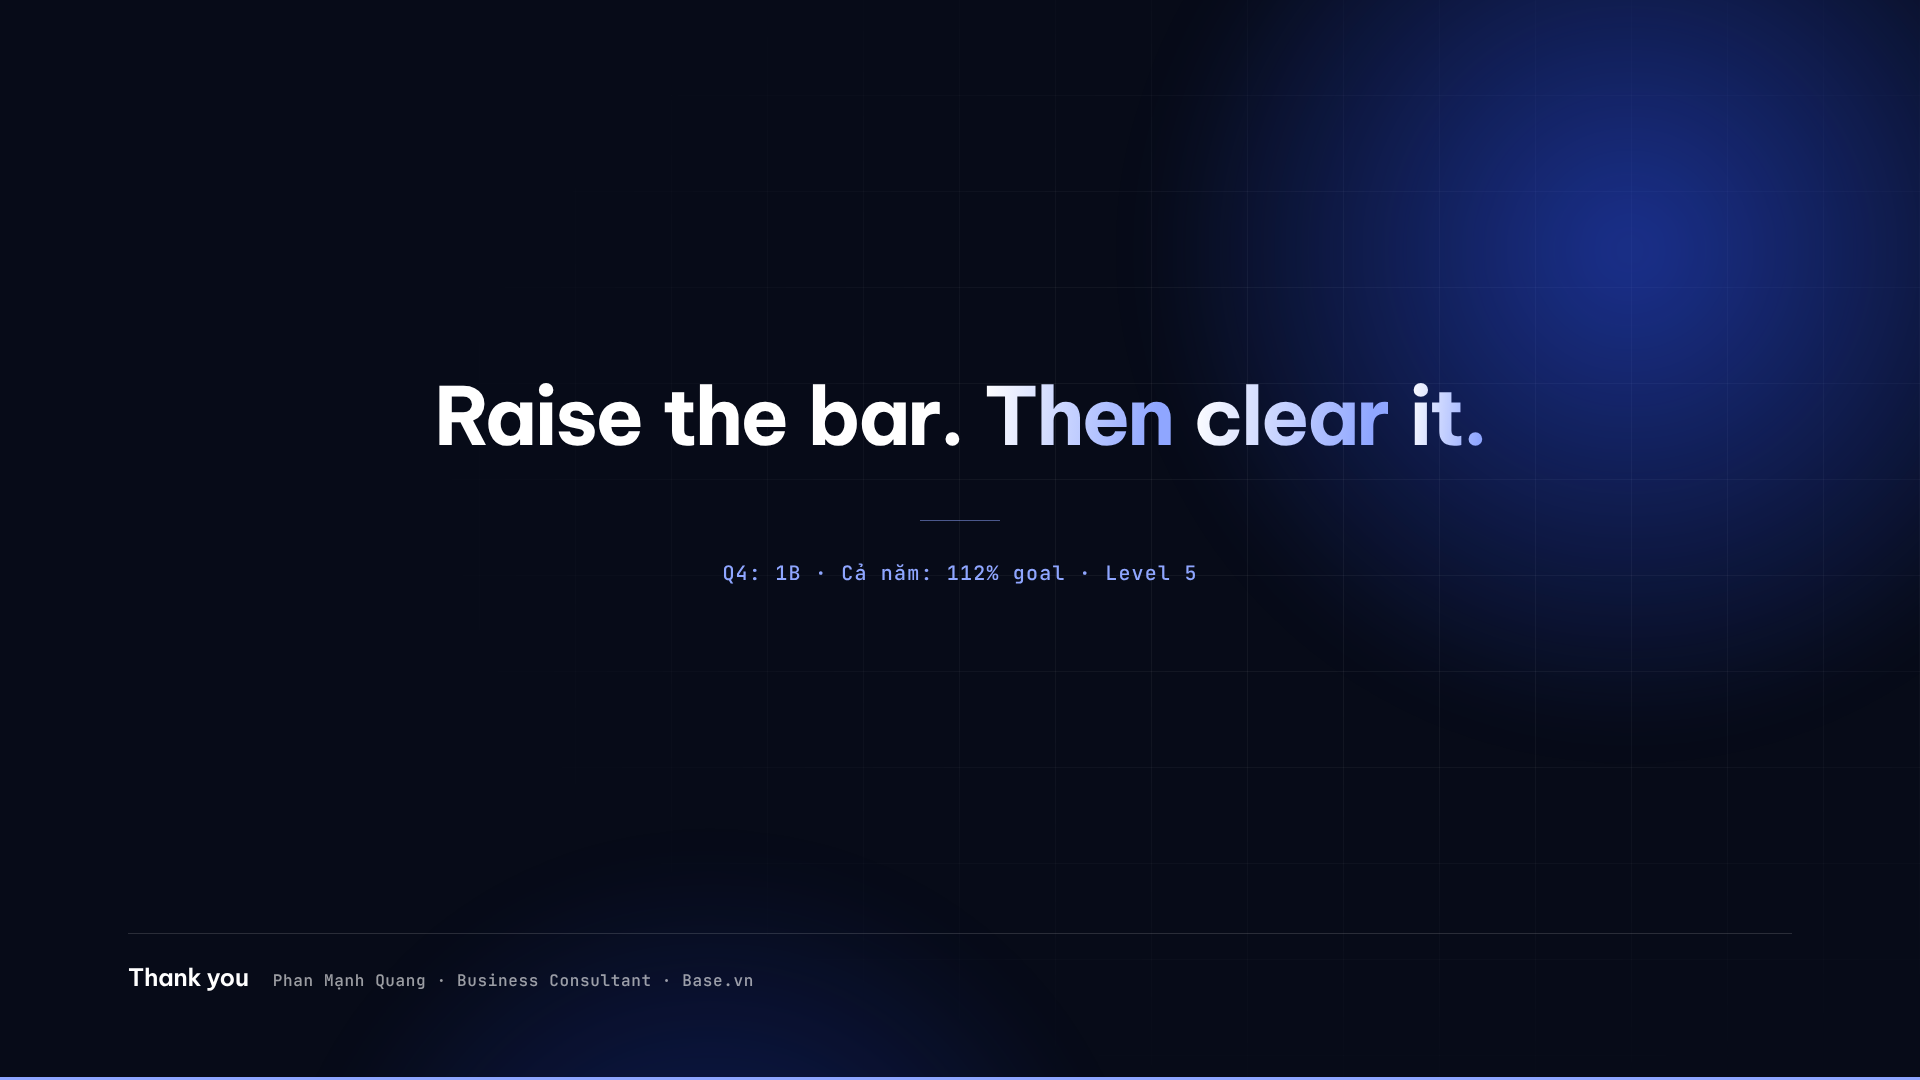
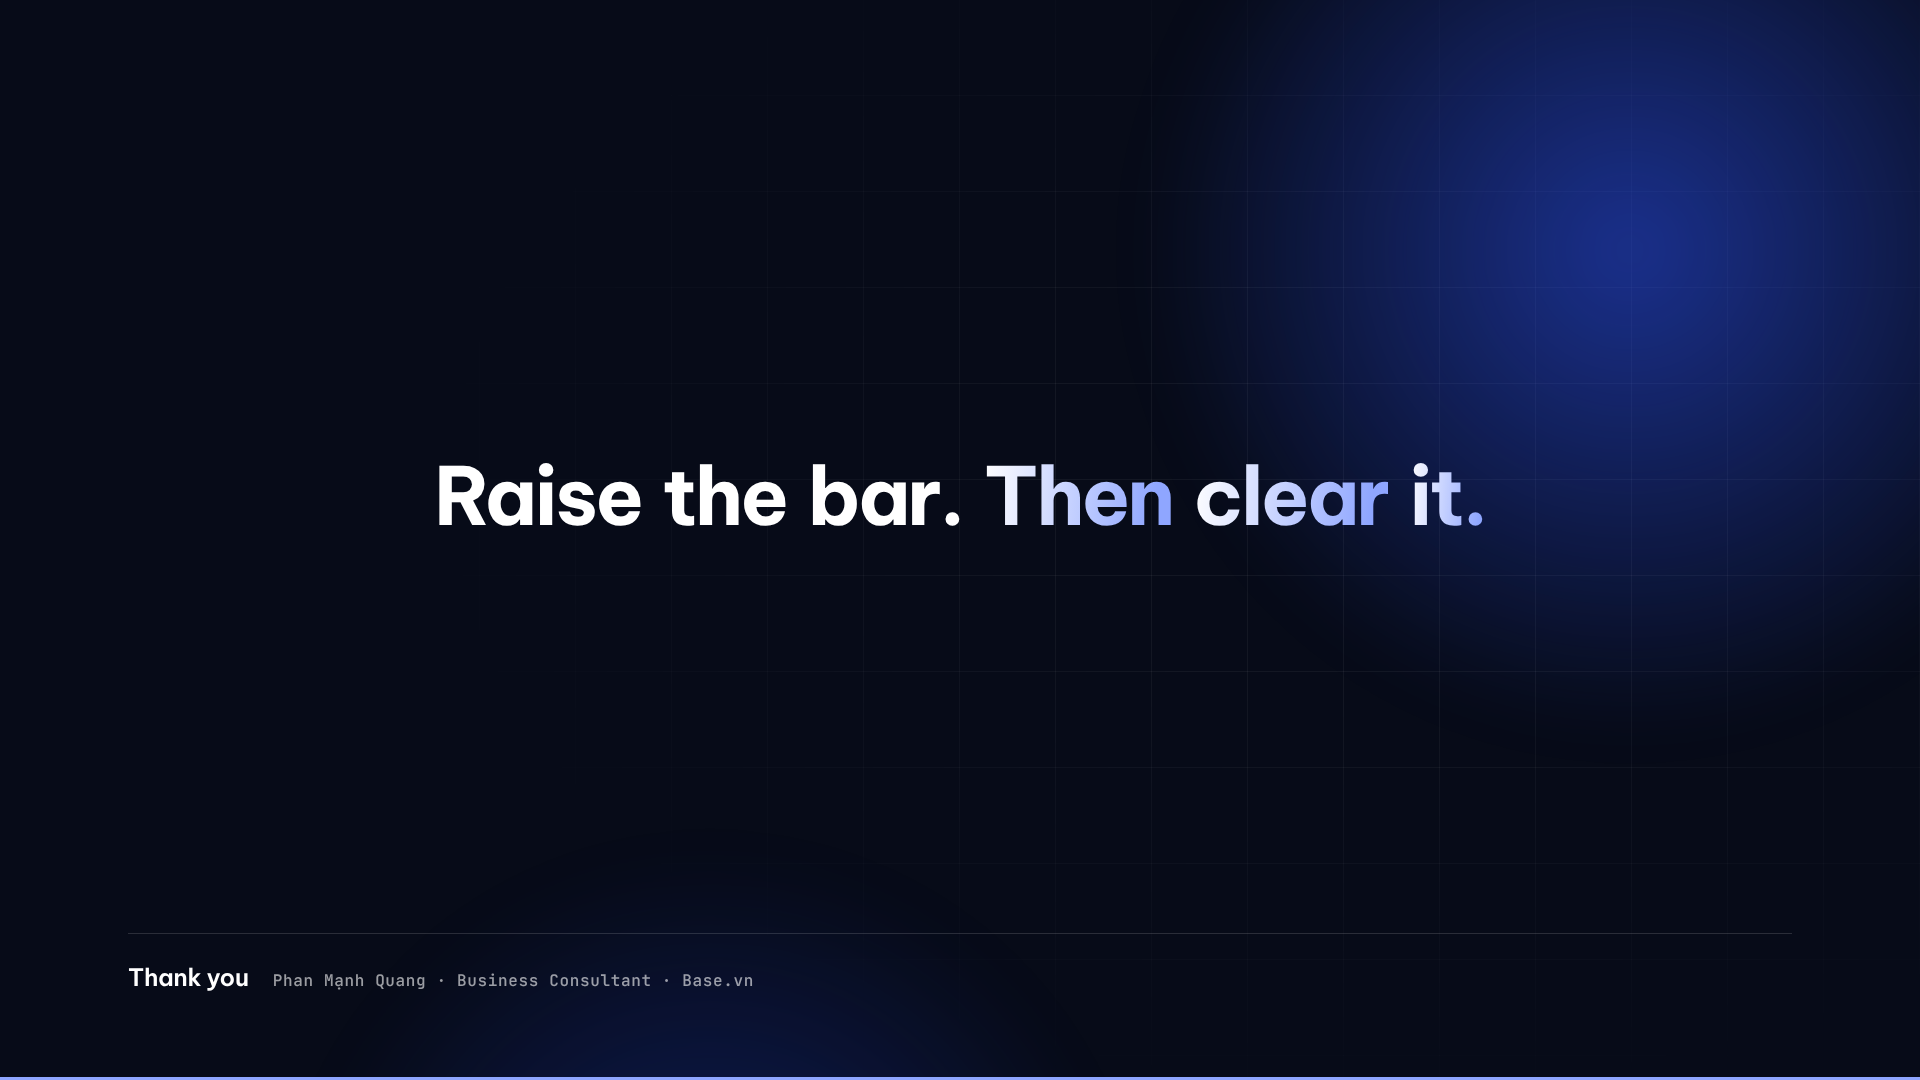
S21: keep only the closing quote; drop the Q4/annual summary line
Claude-Session: https://claude.ai/code/session_011UzGuke8wFavZqFbM5stdo

diff --git a/Q3-26 review and level up defense.html b/Q3-26 review and level up defense.html
@@ -645,11 +645,9 @@ svg .a.gx{transform-origin:0 50%}
 .plan li b{font-weight:600;color:var(--ink)}
 
 /* ---------- S21 · Kết ---------- */
-.closing .qt{position:absolute;left:160px;right:160px;top:372px;text-align:center;font-size:80px;line-height:1.1;font-weight:700;letter-spacing:-.035em;color:#fff}
+.closing .qt{position:absolute;left:160px;right:160px;top:452px;text-align:center;font-size:80px;line-height:1.1;font-weight:700;letter-spacing:-.035em;color:#fff}
 .closing .qt span{display:inline-block;margin:0 .13em}
 .closing .qt span.hl{background:linear-gradient(95deg,#fff 0%,var(--a-300) 90%);-webkit-background-clip:text;background-clip:text;color:transparent}
-.closing .qline{position:absolute;left:0;right:0;top:560px;text-align:center;font-family:var(--mono);font-size:20px;font-weight:500;letter-spacing:.06em;color:var(--a-300)}
-.closing .qrule{position:absolute;left:50%;top:520px;width:80px;height:1px;margin-left:-40px;background:rgba(143,166,255,.5)}
 
 /* ---------- Phụ lục ---------- */
 .apx .eyebrow{color:var(--muted)}
@@ -1324,8 +1322,6 @@ svg .a.gx{transform-origin:0 50%}
 <section class="slide dark closing" data-num="21" data-title="Closing">
   <div class="cv-grid"></div><div class="cv-glow g1"></div><div class="cv-glow g2"></div>
   <div class="qt" data-render="quote"></div>
-  <div class="qrule a fade" style="--d:1400ms"></div>
-  <div class="qline a fade" style="--d:1500ms">Q4: 1B · Cả năm: <span data-bind="year.withQ4Pct"></span>% goal · Level 5</div>
   <div class="cv-by a" style="--d:1800ms"><b>Thank you</b><span>Phan Mạnh Quang · Business Consultant · Base.vn</span></div>
   <aside class="notes"></aside>
 </section>
